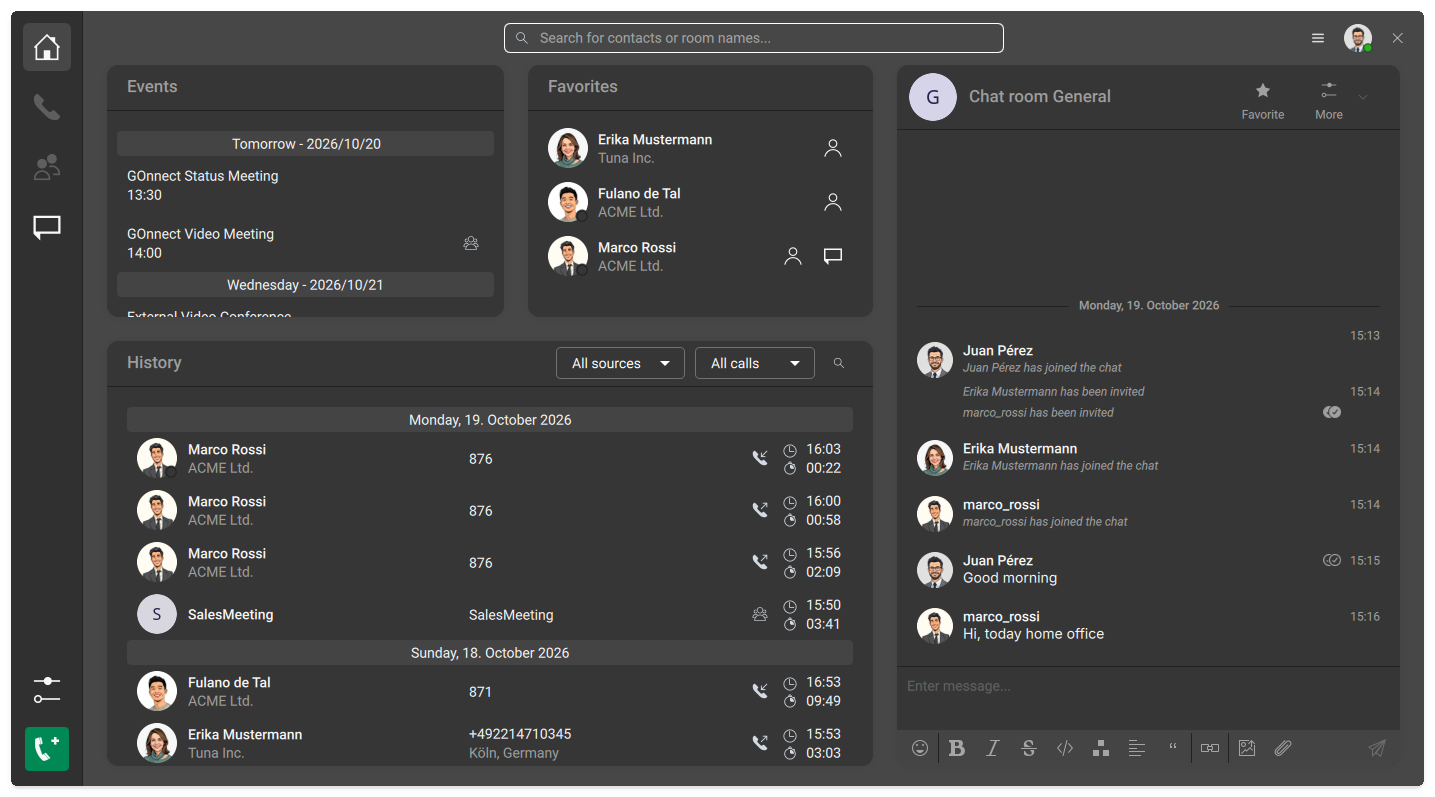
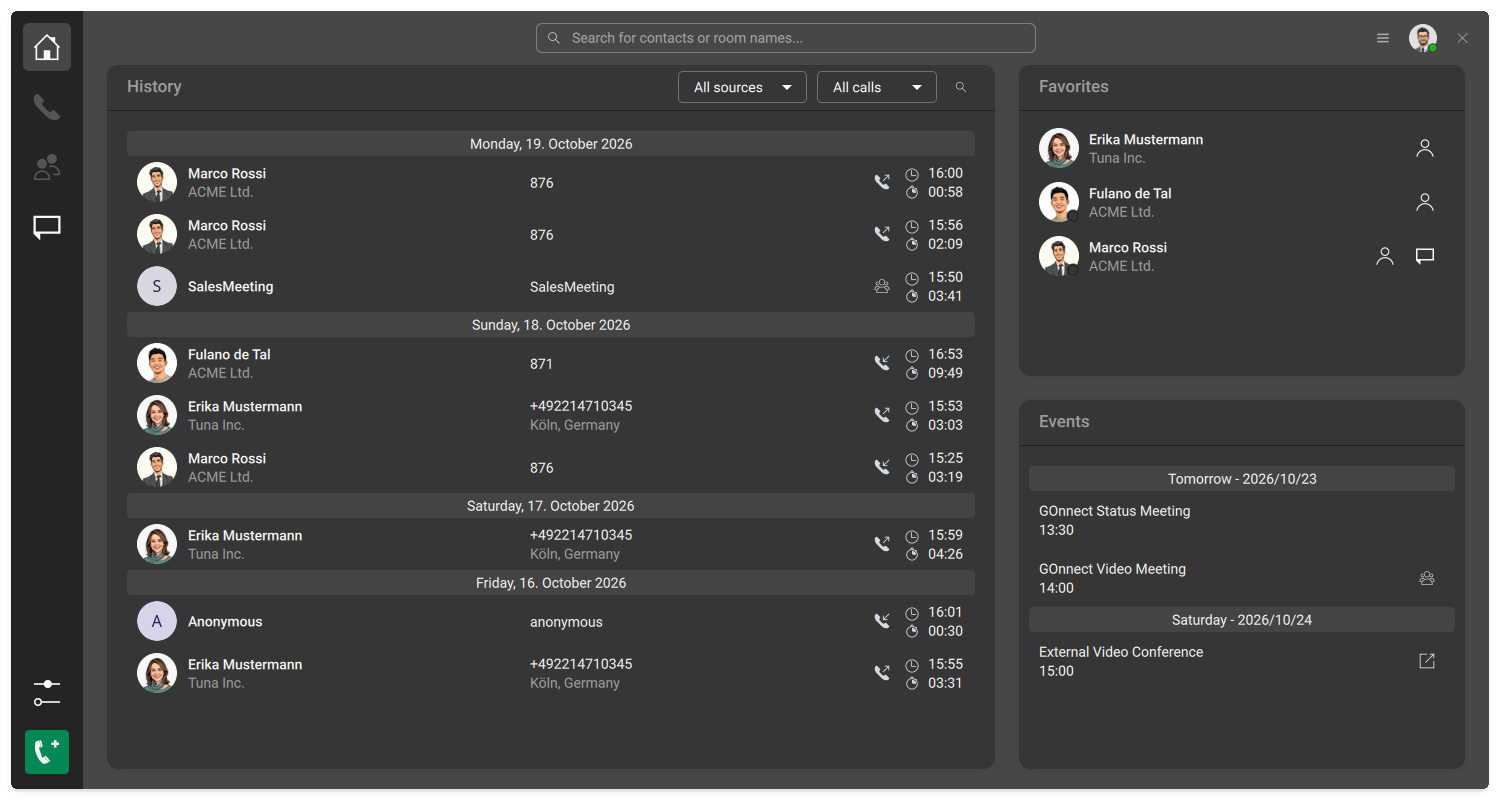
docs: changes noted in review

diff --git a/README.md b/README.md
@@ -54,14 +54,14 @@ Here's a short feature list:
    * Device verification
  * **Presence**: SIP buddy and chat presence combined, own status and status text
  * Dashboard with widgets (appointments, favorites, history, chat, activities, web view)
- * Central search for contacts, chat rooms and history (Ctrl+K)
+ * Central search for contacts, chat rooms/messages and history (Ctrl+F)
  * Address sources
    * LDAP
    * CardDAV
-   * CSV
    * GNOME Contacts / Evolution Data Service
    * Microsoft 365 Contacts (on Windows)
    * Unified avatars from address sources and chat
+   * CSV
  * Calendar sources for upcoming conferences
    * CalDAV
    * GNOME Calendar / Evolution Data Service
